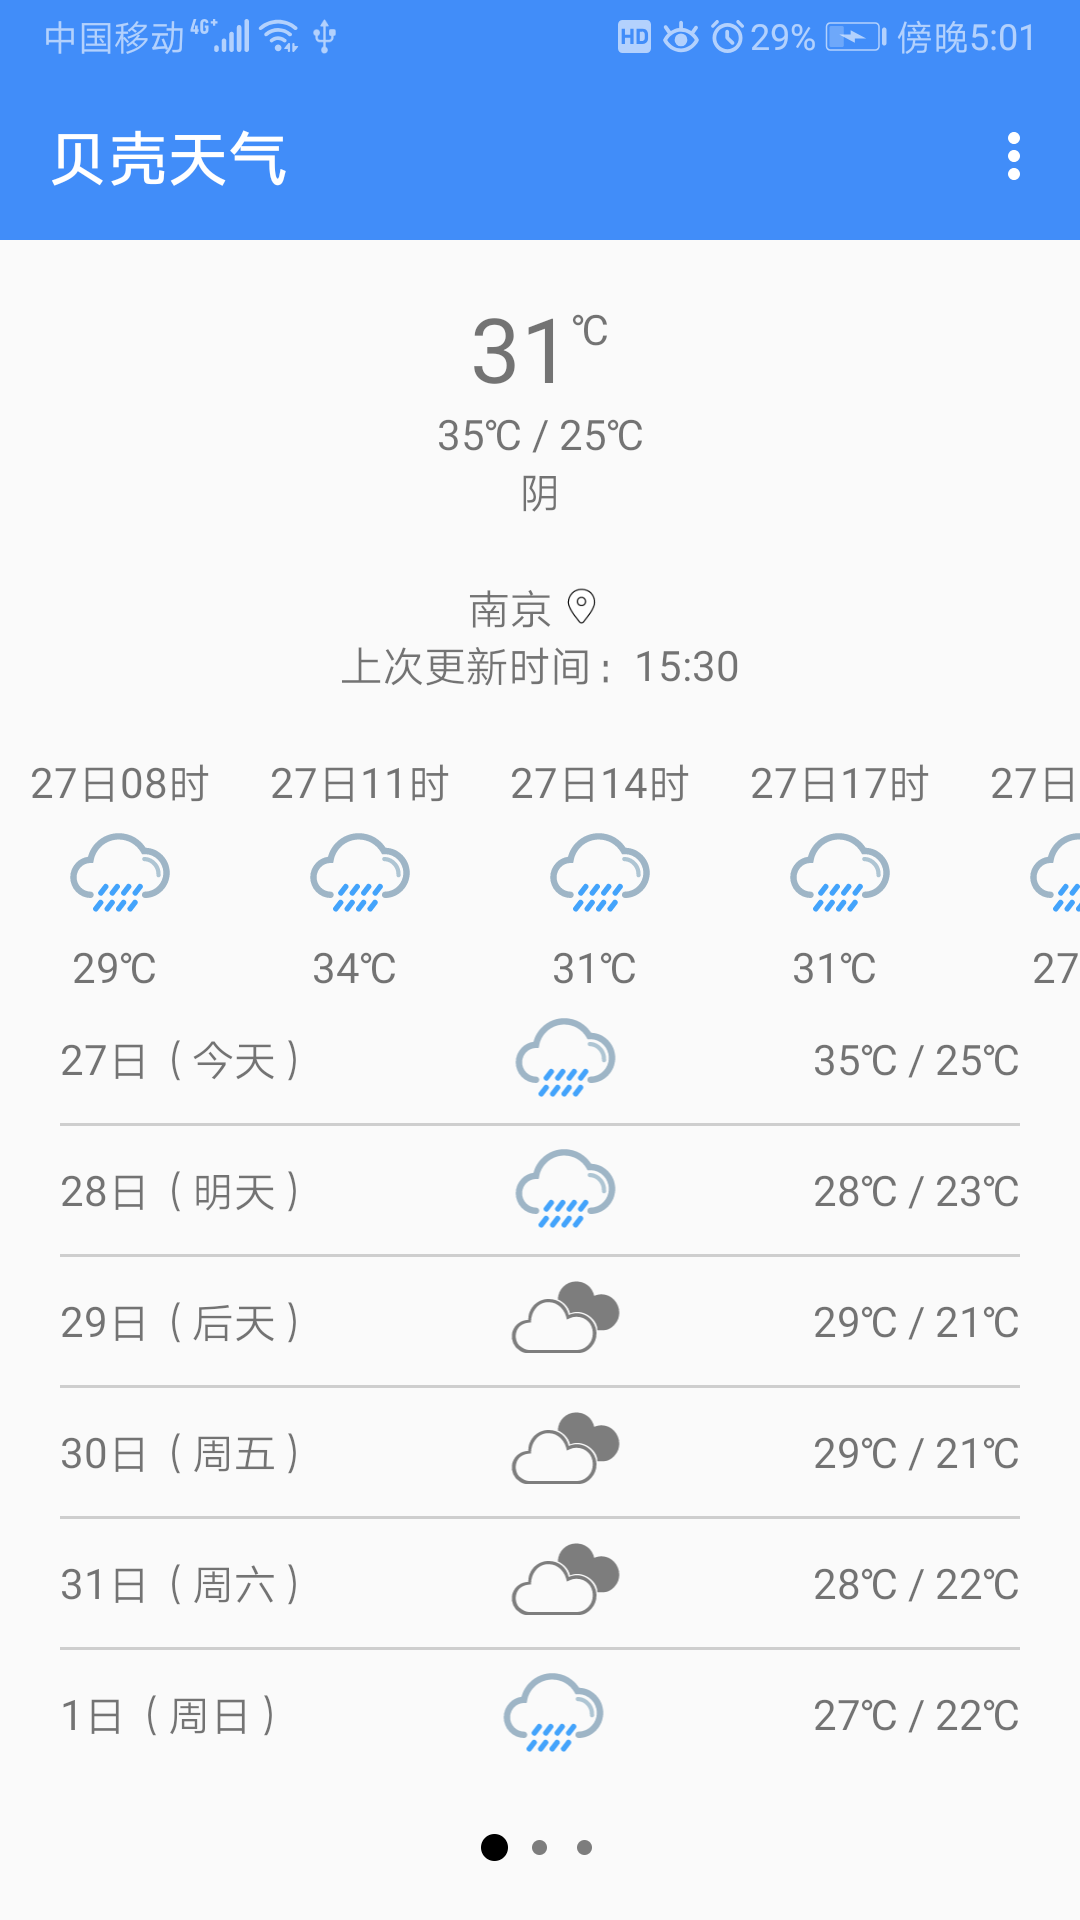
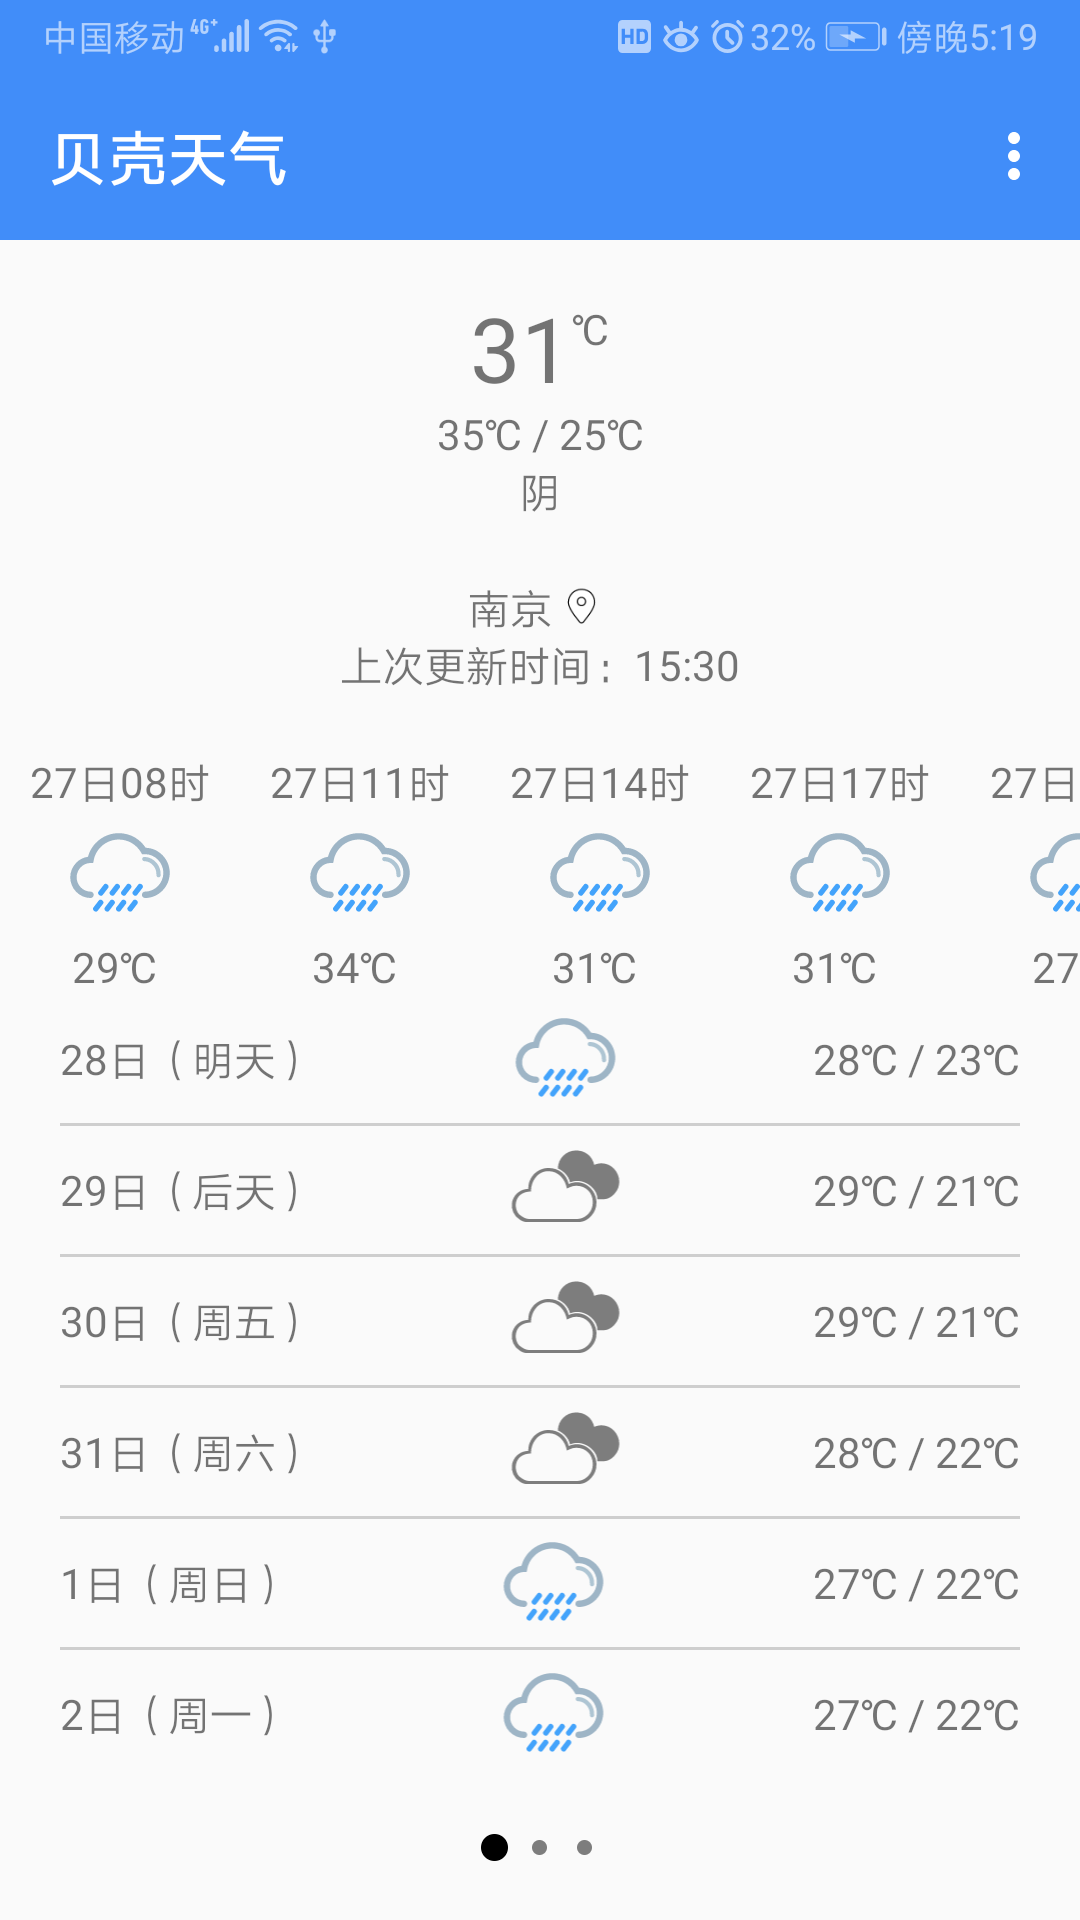
update

diff --git a/app/src/main/java/com/cxyzy/demo/ui/rvAdapter/DailyWeatherAdapter.kt b/app/src/main/java/com/cxyzy/demo/ui/rvAdapter/DailyWeatherAdapter.kt
@@ -48,12 +48,17 @@ class DailyWeatherAdapter(private var isToday: Boolean) :
 
 
     fun setData(dataList: List<DailyWeatherResp.Data>) {
+        if (dataList.isEmpty()) {
+            return
+        }
         if (isToday) {
             mTodayDataList.clear()
             mTodayDataList.addAll(dataList[0].hours)
         } else {
             mFutureDataList.clear()
-            mFutureDataList.addAll(dataList)
+            for (i in 1 until dataList.size) {
+                mFutureDataList.add(dataList[i])
+            }
         }
         notifyDataSetChanged()
     }

diff --git a/app/README.md b/app/README.md
@@ -1,12 +1,13 @@
 # 简单天气预报demo
 
-功能介绍：
+## 功能介绍：
 
 1. 支持定位当前所在城市（集成高德地图）
 2. 支持加载多个城市天气
+3. 支持显示实时天气
 
 
-技术实现介绍：
+## 技术实现介绍：
 
 1. coroutines+retrofit请求网络接口
 2. 通过RecyclerView以列表形式展示数据
